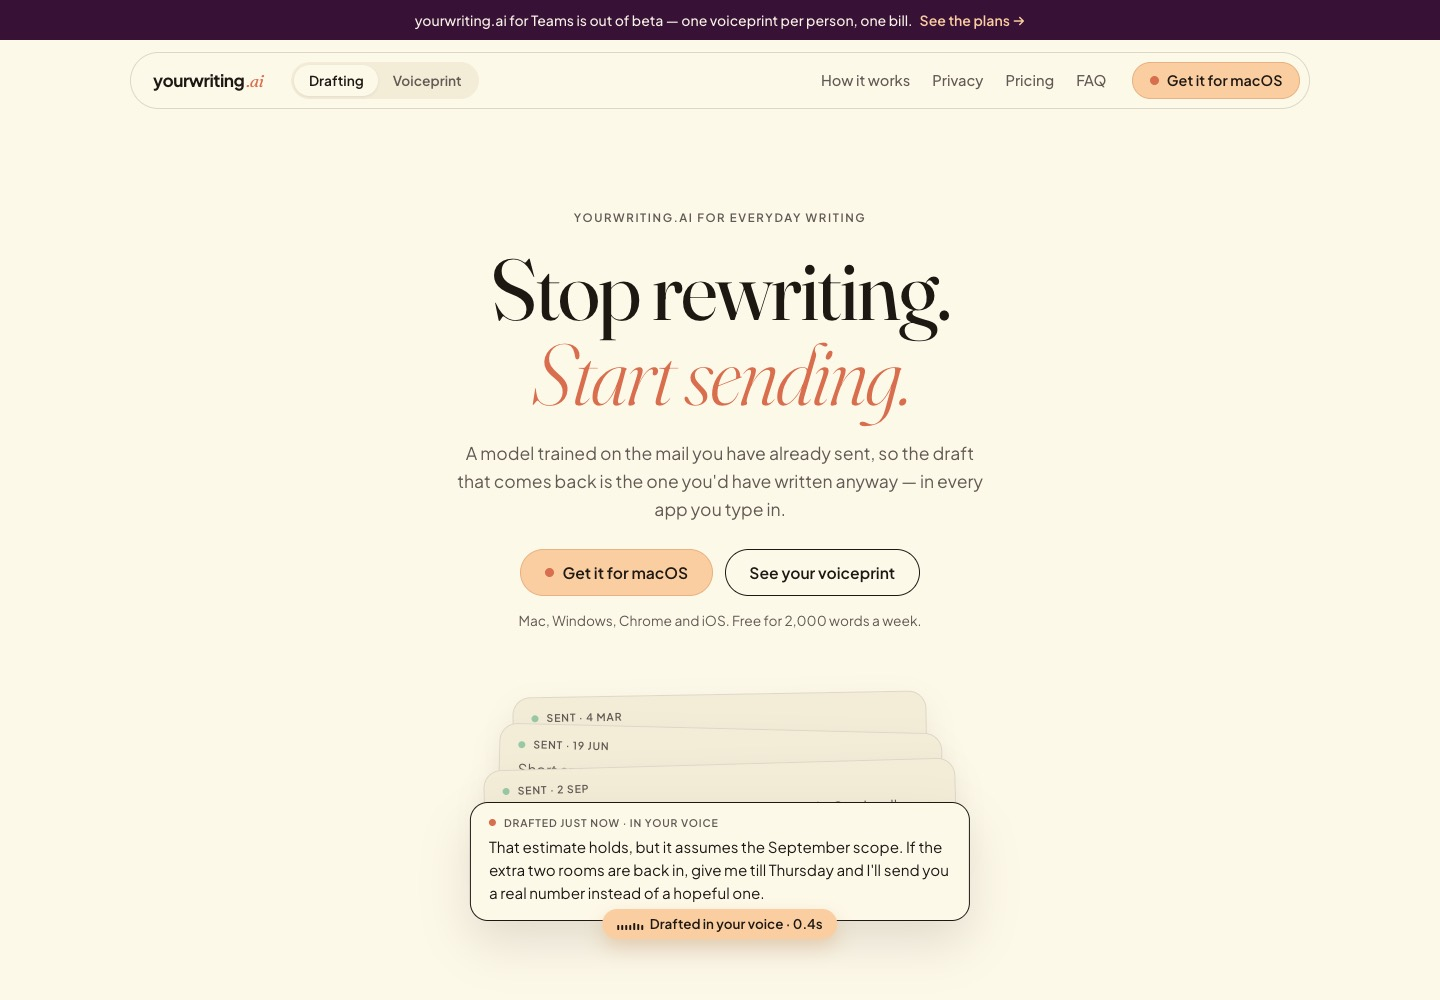
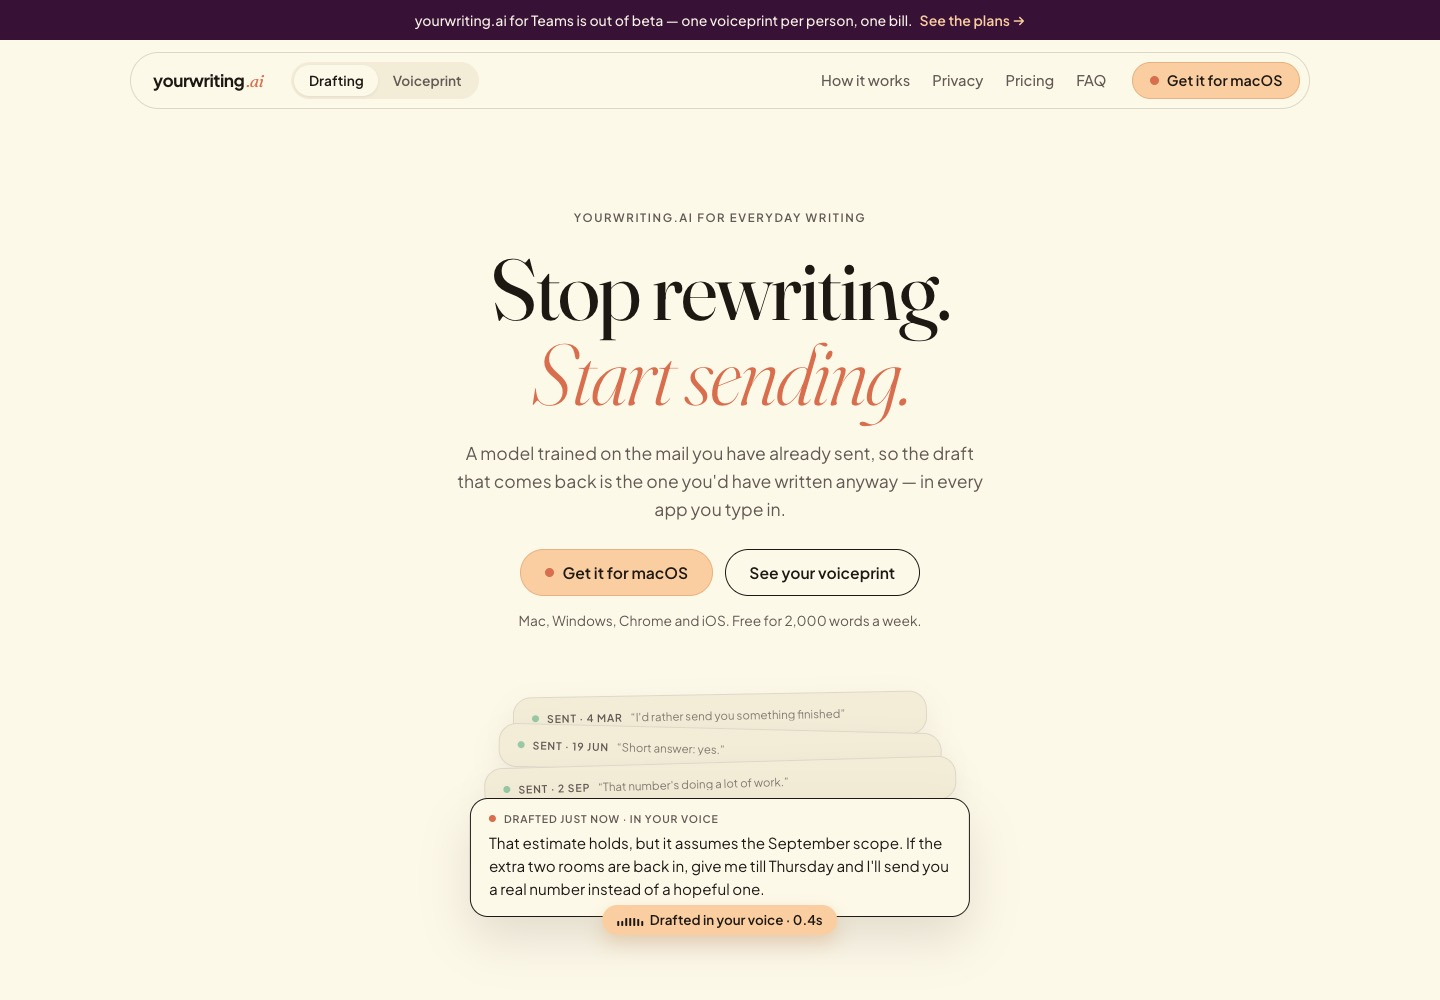
Hero stack: dated strips instead of clipped cards
The stacked sent messages showed a sliver of their own body text between
peeks, because a 1.4 degree rotation on a 440px card moves its edge about
5px vertically — more than the slack in a 34px peek. They are one-line
dated strips now, each carrying a real quote, so there is nothing behind
the front card to leak.

Claude-Session: https://claude.ai/code/session_01Buigq6LNMukb7aMUo7hSAE

Changed region(s): [[0.3438, 0.713, 0.6562, 0.93], [0.5, 0.713, 0.5312, 0.744]]

diff --git a/everyday/index.html b/everyday/index.html
@@ -111,7 +111,12 @@
          background:var(--ivory-2); border:1px solid var(--line); border-radius:var(--r);
          padding:15px 18px; text-align:left; box-shadow:0 12px 30px oklch(0.4 0.03 60 / .09); }
   .card .meta{ display:flex; gap:8px; align-items:center; font:600 10.5px/1 var(--sans);
-               letter-spacing:.08em; text-transform:uppercase; color:var(--ink-2); margin-bottom:8px; }
+               letter-spacing:.08em; text-transform:uppercase; color:var(--ink-2); margin-bottom:8px;
+               white-space:nowrap; overflow:hidden; }
+  .card .meta em{ font:400 11.5px/1 var(--sans); font-style:normal; letter-spacing:0; text-transform:none;
+                  opacity:.78; overflow:hidden; text-overflow:ellipsis; }
+  .card:not(.fresh) p{ display:none; }
+  .card:not(.fresh) .meta{ margin-bottom:0; }
   .card .meta b{ width:7px; height:7px; border-radius:50%; background:var(--sage); }
   .card p{ margin:0; font-size:.95rem; line-height:1.5; color:var(--ink-2); }
   .card.fresh{ background:var(--ivory); border-color:var(--ink); box-shadow:0 22px 48px oklch(0.4 0.03 60 / .16); }
@@ -329,9 +334,9 @@
     <p class="avail" data-rise>Mac, Windows, Chrome and iOS. Free for 2,000 words a week.</p>
 
     <div class="deck" id="deck" aria-hidden="true">
-      <div class="card" data-i="3"><div class="meta"><b></b>Sent · 4 Mar</div><p>Happy to push it a week — I'd rather send you something finished than something on time.</p></div>
-      <div class="card" data-i="2"><div class="meta"><b></b>Sent · 19 Jun</div><p>Short answer: yes. Long answer: yes, but not until the Faulkner job is off my desk.</p></div>
-      <div class="card" data-i="1"><div class="meta"><b></b>Sent · 2 Sep</div><p>That number's right but it's doing a lot of work. Can I walk you through it on Thursday?</p></div>
+      <div class="card" data-i="3"><div class="meta"><b></b>Sent · 4 Mar<em>“I'd rather send you something finished”</em></div><p>Happy to push it a week — I'd rather send you something finished than something on time.</p></div>
+      <div class="card" data-i="2"><div class="meta"><b></b>Sent · 19 Jun<em>“Short answer: yes.”</em></div><p>Short answer: yes. Long answer: yes, but not until the Faulkner job is off my desk.</p></div>
+      <div class="card" data-i="1"><div class="meta"><b></b>Sent · 2 Sep<em>“That number's doing a lot of work.”</em></div><p>That number's right but it's doing a lot of work. Can I walk you through it on Thursday?</p></div>
       <div class="card fresh" data-i="0">
         <div class="meta"><b></b>Drafted just now · in your voice</div>
         <p>That estimate holds, but it assumes the September scope. If the extra two rooms are back in, give me till Thursday and I'll send you a real number instead of a hopeful one.</p>
@@ -594,7 +599,7 @@
 
   /* ------------------------------------------------------------ hero deck fans open once */
   var cards = gsap.utils.toArray("#deck .card");
-  var FAN = [{y: 112, r: 0, w: 61}, {y: 74, r: -1.6, w: 57.5}, {y: 38, r: 1.4, w: 54}, {y: 4, r: -1.0, w: 50.5}];
+  var FAN = [{y: 108, r: 0, w: 61}, {y: 72, r: -1.6, w: 57.5}, {y: 38, r: 1.4, w: 54}, {y: 4, r: -1.0, w: 50.5}];
   function place(){
     cards.forEach(function(c){
       var f = FAN[+c.dataset.i];
